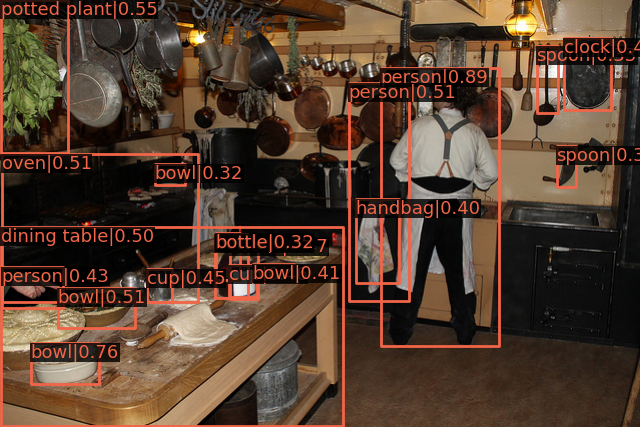
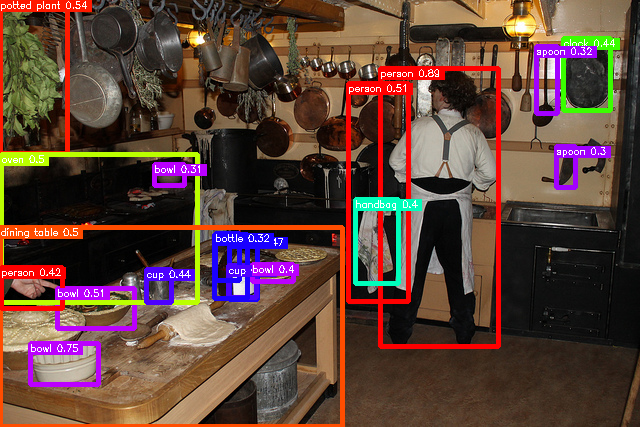
Implement for plot_results, write_predictions

diff --git a/object_detection/picodet/picodet.py b/object_detection/picodet/picodet.py
@@ -13,13 +13,13 @@ import ailia
 sys.path.append('../../util')
 from utils import get_base_parser, update_parser, get_savepath  # noqa
 from model_utils import check_and_download_models  # noqa
-from detector_utils import load_image  # noqa
 from image_utils import normalize_image  # noqa
+from detector_utils import load_image, plot_results, write_predictions  # noqa
 from webcamera_utils import get_capture, get_writer  # noqa
 # logger
 from logging import getLogger  # noqa
 
-from picodet_utils import grid_priors, get_bboxes, bbox2result
+from picodet_utils import grid_priors, get_bboxes
 
 logger = getLogger(__name__)
 
@@ -35,19 +35,21 @@ WEIGHT_L_640_PATH = 'picodet_l_640_coco.onnx'
 MODEL_L_640_PATH = 'picodet_l_640_coco.onnx.prototxt'
 REMOTE_PATH = 'https://storage.googleapis.com/ailia-models/picodet/'
 
-CLASS_NAMES = (
-    'person', 'bicycle', 'car', 'motorcycle', 'airplane', 'bus', 'train', 'truck', 'boat', 'traffic light',
-    'fire hydrant',
-    'stop sign', 'parking meter', 'bench', 'bird', 'cat', 'dog', 'horse', 'sheep', 'cow', 'elephant', 'bear', 'zebra',
-    'giraffe', 'backpack', 'umbrella', 'handbag', 'tie', 'suitcase', 'frisbee', 'skis', 'snowboard', 'sports ball',
-    'kite',
-    'baseball bat', 'baseball glove', 'skateboard', 'surfboard', 'tennis racket', 'bottle', 'wine glass', 'cup', 'fork',
-    'knife', 'spoon', 'bowl', 'banana', 'apple', 'sandwich', 'orange', 'broccoli', 'carrot', 'hot dog', 'pizza',
-    'donut',
-    'cake', 'chair', 'couch', 'potted plant', 'bed', 'dining table', 'toilet', 'tv', 'laptop', 'mouse', 'remote',
-    'keyboard', 'cell phone', 'microwave', 'oven', 'toaster', 'sink', 'refrigerator', 'book', 'clock', 'vase',
-    'scissors',
-    'teddy bear', 'hair drier', 'toothbrush')
+COCO_CATEGORY = (
+    "person", "bicycle", "car", "motorcycle", "airplane", "bus", "train",
+    "truck", "boat", "traffic light", "fire hydrant", "stop sign",
+    "parking meter", "bench", "bird", "cat", "dog", "horse", "sheep", "cow",
+    "elephant", "bear", "zebra", "giraffe", "backpack", "umbrella",
+    "handbag", "tie", "suitcase", "frisbee", "skis", "snowboard",
+    "sports ball", "kite", "baseball bat", "baseball glove", "skateboard",
+    "surfboard", "tennis racket", "bottle", "wine glass", "cup", "fork",
+    "knife", "spoon", "bowl", "banana", "apple", "sandwich", "orange",
+    "broccoli", "carrot", "hot dog", "pizza", "donut", "cake", "chair",
+    "couch", "potted plant", "bed", "dining table", "toilet", "tv",
+    "laptop", "mouse", "remote", "keyboard", "cell phone", "microwave",
+    "oven", "toaster", "sink", "refrigerator", "book", "clock", "vase",
+    "scissors", "teddy bear", "hair drier", "toothbrush"
+)
 
 IMAGE_PATH = 'demo.jpg'
 SAVE_IMAGE_PATH = 'output.png'
@@ -71,6 +73,11 @@ parser.add_argument(
     '-iou', '--iou',
     default=IOU, type=float,
     help='IOU threshold for NMS'
+)
+parser.add_argument(
+    '-w', '--write_prediction',
+    action='store_true',
+    help='Flag to output the prediction file.'
 )
 parser.add_argument(
     '-m', '--model_type', default='s-416',
@@ -211,7 +218,8 @@ def preprocess(img, image_shape):
     return img, scale_factor
 
 
-def post_processing(output, img_shape, scale_factor):
+def post_processing(img, output, out_shape, scale_factor):
+    im_h, im_w = img.shape[:2]
     cls_scores = output[:4]
     bbox_preds = output[4:]
 
@@ -227,18 +235,31 @@ def post_processing(output, img_shape, scale_factor):
         bbox_preds[i][0] for i in range(num_levels)
     ]
 
-    num_classes = len(CLASS_NAMES)
+    num_classes = len(COCO_CATEGORY)
     nms_thre = args.iou
 
     det_bboxes, det_labels = get_bboxes(
         cls_score_list, bbox_pred_list, mlvl_priors,
-        img_shape, num_classes,
+        out_shape, num_classes,
         scale_factor=scale_factor, with_nms=True, nms_thre=nms_thre
     )
 
-    bbox_result = bbox2result(det_bboxes, det_labels, num_classes)
+    detections = []
+    for bbox, label in zip(det_bboxes, det_labels):
+        x1, y1, x2, y2, prob = bbox
+        if prob < args.threshold:
+            break
+        r = ailia.DetectorObject(
+            category=label,
+            prob=bbox[4],
+            x=x1 / im_w,
+            y=y1 / im_h,
+            w=(x2 - x1) / im_w,
+            h=(y2 - y1) / im_h,
+        )
+        detections.append(r)
 
-    return bbox_result
+    return detections
 
 
 def predict(net, img):
@@ -249,14 +270,14 @@ def predict(net, img):
     }
     shape = dic_shape[args.model_type]
 
-    img, scale_factor = preprocess(img, shape)
+    pp_img, scale_factor = preprocess(img, shape)
 
     # feedforward
-    output = net.predict([img])
+    output = net.predict([pp_img])
 
-    bbox_result = post_processing(output, shape, scale_factor)
+    detect_object = post_processing(img, output, shape, scale_factor)
 
-    return bbox_result
+    return detect_object
 
 
 def recognize_from_image(net):
@@ -275,7 +296,7 @@ def recognize_from_image(net):
             total_time_estimation = 0
             for i in range(args.benchmark_count):
                 start = int(round(time.time() * 1000))
-                bbox_result = predict(net, img)
+                detect_object = predict(net, img)
                 end = int(round(time.time() * 1000))
                 estimation_time = (end - start)
 
@@ -286,15 +307,19 @@ def recognize_from_image(net):
 
             logger.info(f'\taverage time estimation {total_time_estimation / (args.benchmark_count - 1)} ms')
         else:
-            bbox_result = predict(net, img)
+            detect_object = predict(net, img)
 
-        score_thr = args.threshold
-        res_img = show_result(img, bbox_result, CLASS_NAMES, score_thr=score_thr)
+        res_img = plot_results(detect_object, img, COCO_CATEGORY)
 
         # plot result
         savepath = get_savepath(args.savepath, image_path, ext='.png')
         logger.info(f'saved at : {savepath}')
         cv2.imwrite(savepath, res_img)
+
+        # write prediction
+        if args.write_prediction:
+            pred_file = '%s.txt' % savepath.rsplit('.', 1)[0]
+            write_predictions(pred_file, detect_object, img, COCO_CATEGORY)
 
     logger.info('Script finished successfully.')
 
@@ -327,7 +352,7 @@ def recognize_from_video(net):
         bbox_result = predict(net, img)
 
         # plot result
-        res_img = show_result(frame, bbox_result, CLASS_NAMES, score_thr=score_thr)
+        res_img = show_result(frame, bbox_result, COCO_CATEGORY, score_thr=score_thr)
 
         # show
         cv2.imshow('frame', res_img)

diff --git a/object_detection/picodet/picodet_utils.py b/object_detection/picodet/picodet_utils.py
@@ -146,23 +146,6 @@ class Integral:
         return x
 
 
-def bbox2result(bboxes, labels, num_classes):
-    """Convert detection results to a list of numpy arrays.
-
-    Args:
-        bboxes (torch.Tensor | np.ndarray): shape (n, 5)
-        labels (torch.Tensor | np.ndarray): shape (n, )
-        num_classes (int): class number, including background class
-
-    Returns:
-        list(ndarray): bbox results of each class
-    """
-    if bboxes.shape[0] == 0:
-        return [np.zeros((0, 5), dtype=np.float32) for _ in range(num_classes)]
-    else:
-        return [bboxes[labels == i, :] for i in range(num_classes)]
-
-
 def distance2bbox(points, distance, max_shape=None):
     """Decode distance prediction to bounding box.
 
